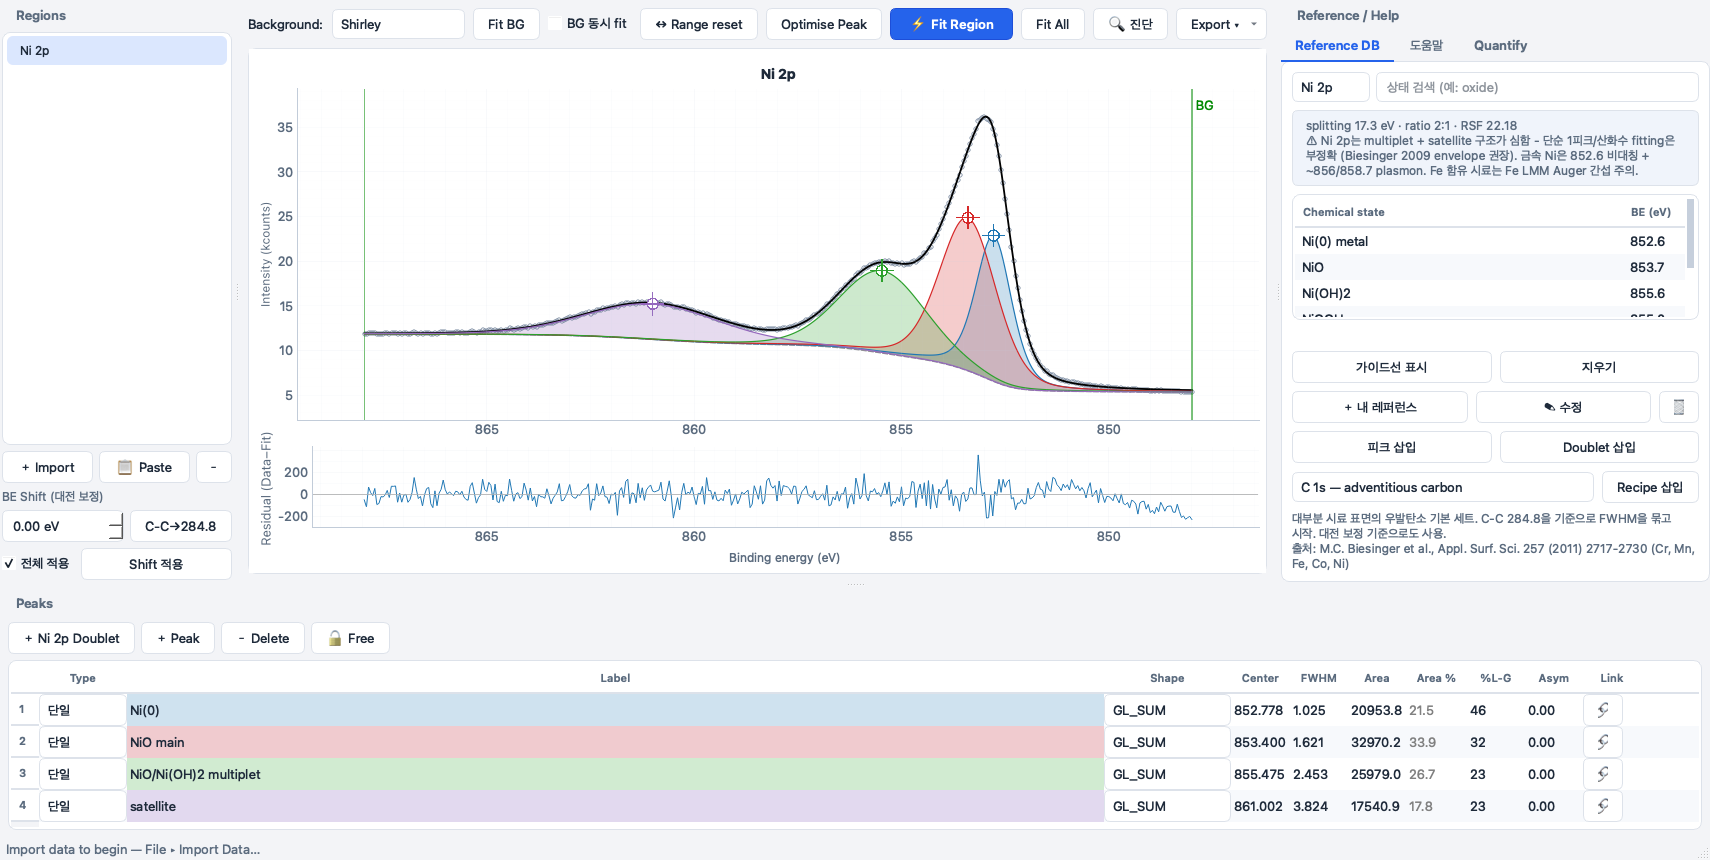
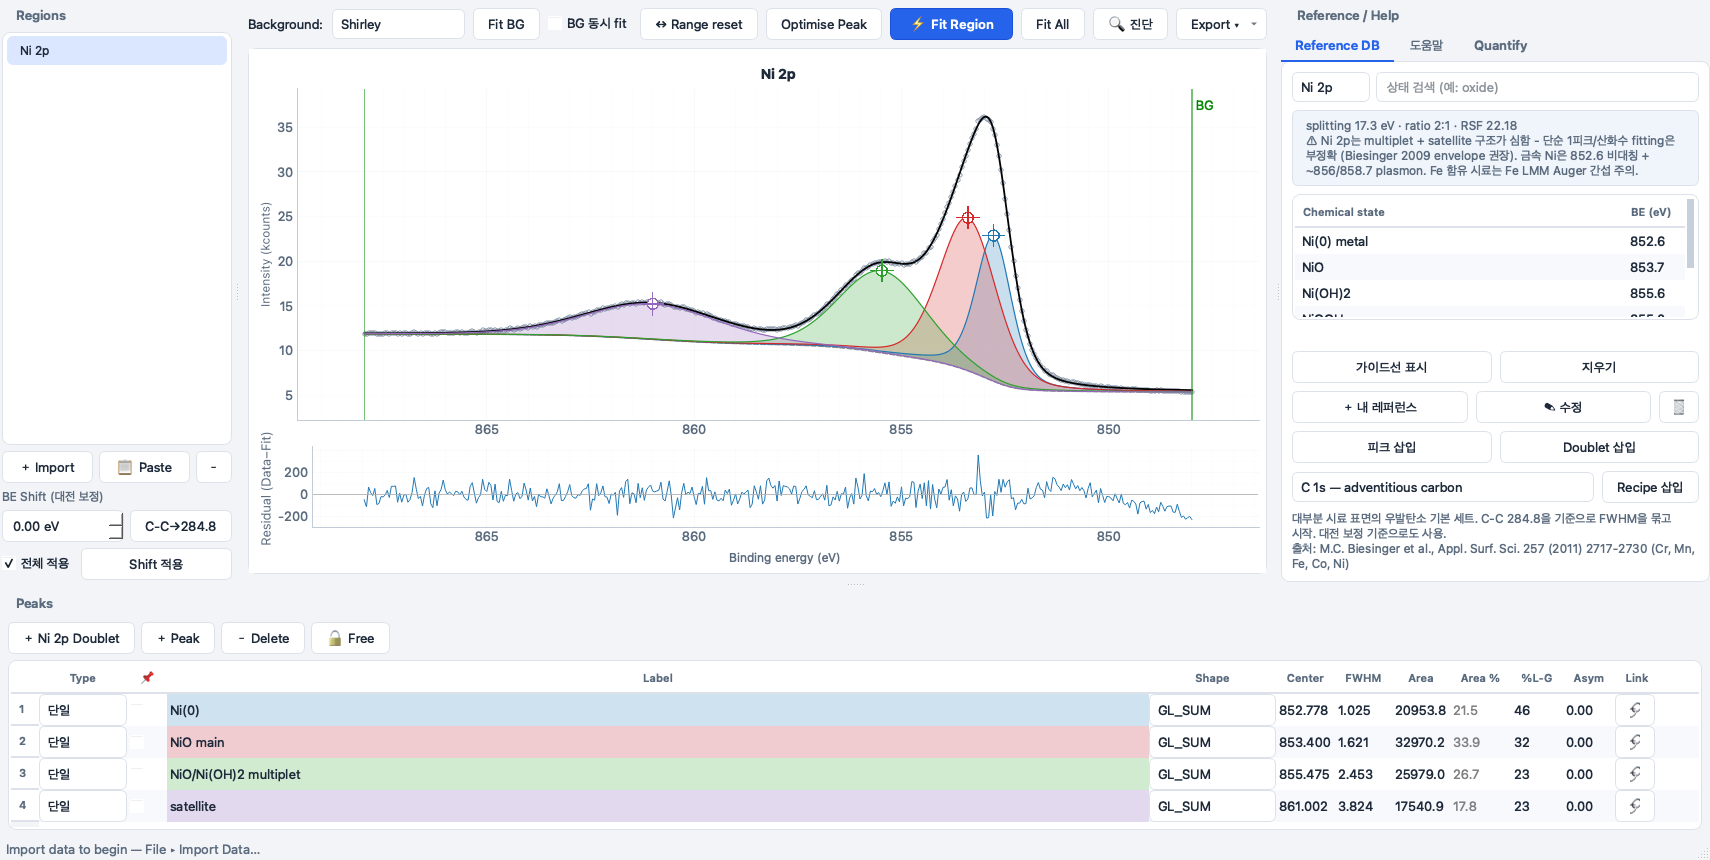
Add peak pinning (freeze-one-optimize-rest) and position-only lock

Changed region(s): [[0.6199, 0.786, 0.9608, 0.9674], [0.062, 0.786, 0.186, 0.9674], [0.3719, 0.786, 0.4029, 0.8163]]

diff --git a/src/xpsfit/ui/peak_table.py b/src/xpsfit/ui/peak_table.py
@@ -138,8 +138,10 @@ class PeakTable(QWidget):
     modelChanged = Signal()  # any parameter/peak-list change
     peakSelected = Signal(int)
 
-    HEADERS = ["Type", "Label", "Shape", "Center", "FWHM", "Area", "Area %", "%L-G", "Asym", "Link", ""]
+    HEADERS = ["Type", "📌", "Label", "Shape", "Center", "FWHM", "Area", "Area %", "%L-G", "Asym", "Link", ""]
     KIND_LABEL = {"single": "단일", "doublet_main": "Doublet", "satellite": "Satellite"}
+    COL_TYPE, COL_PIN, COL_LABEL, COL_SHAPE, COL_CENTER, COL_FWHM, COL_AREA = 0, 1, 2, 3, 4, 5, 6
+    COL_FRAC, COL_MIX, COL_ASYM, COL_LINK = 7, 8, 9, 10
 
     def __init__(self, parent=None):
         super().__init__(parent)
@@ -149,8 +151,13 @@ class PeakTable(QWidget):
         self.table = QTableWidget(0, len(self.HEADERS))
         self.table.setHorizontalHeaderLabels(self.HEADERS)
         self.table.horizontalHeader().setSectionResizeMode(QHeaderView.ResizeMode.ResizeToContents)
-        self.table.horizontalHeader().setSectionResizeMode(1, QHeaderView.ResizeMode.Stretch)
-        self.table.horizontalHeader().setMinimumSectionSize(58)
+        self.table.horizontalHeader().setSectionResizeMode(self.COL_LABEL, QHeaderView.ResizeMode.Stretch)
+        self.table.horizontalHeader().setMinimumSectionSize(40)
+        self.table.horizontalHeaderItem(self.COL_PIN).setToolTip(
+            "📌 고정: 체크하면 이 피크의 모든 파라미터가 fitting에서 제외됩니다\n"
+            "(한 피크를 잡아두고 나머지만 최적화). 위치만 고정하려면 행을 우클릭하세요.")
+        self.table.setContextMenuPolicy(Qt.ContextMenuPolicy.CustomContextMenu)
+        self.table.customContextMenuRequested.connect(self._context_menu)
         self.table.verticalHeader().setVisible(True)
         self.table.verticalHeader().setDefaultSectionSize(32)
         self.table.setAlternatingRowColors(True)
@@ -237,32 +244,38 @@ class PeakTable(QWidget):
             fractions = fitting.area_fractions(region)
             for i, p in enumerate(region.peaks):
                 self._make_type_combo(i, p)
-                self._set_item(i, 1, p.label, editable=True)
+                self._make_pin_item(i, p)
+                self._set_item(i, self.COL_LABEL, p.label, editable=True)
                 # match the component color used in the plot
                 tint = QColor(COMPONENT_COLORS[i % len(COMPONENT_COLORS)])
                 tint.setAlpha(55)
-                self.table.item(i, 1).setBackground(tint)
+                self.table.item(i, self.COL_LABEL).setBackground(tint)
                 shape_combo = QComboBox()
                 shape_combo.addItems(PEAK_SHAPES)
                 shape_combo.setCurrentText(p.shape)
                 shape_combo.currentTextChanged.connect(
                     lambda s, row=i: self._shape_changed(row, s))
-                self.table.setCellWidget(i, 2, shape_combo)
-                for col, (pname, _) in zip((3, 4, 5), PARAM_COLS[:3]):
+                self.table.setCellWidget(i, self.COL_SHAPE, shape_combo)
+                for col, (pname, _) in zip((self.COL_CENTER, self.COL_FWHM, self.COL_AREA),
+                                           PARAM_COLS[:3]):
                     spec = getattr(p, pname)
-                    self._set_item(i, col, f"{spec.value:.3f}" if pname != "area" else f"{spec.value:.1f}",
+                    prefix = "🔒 " if (col == self.COL_CENTER and not spec.vary
+                                       and spec.expr is None and not p.pinned) else ""
+                    self._set_item(i, col,
+                                   prefix + (f"{spec.value:.3f}" if pname != "area" else f"{spec.value:.1f}"),
                                    editable=spec.expr is None,
                                    tooltip=self._spec_tooltip(spec))
-                self._set_item(i, 6, f"{fractions[i]:.1f}" if i < len(fractions) else "-", editable=False)
-                self._set_item(i, 7, f"{p.mix.value:.0f}", editable=p.mix.expr is None,
+                self._set_item(i, self.COL_FRAC,
+                               f"{fractions[i]:.1f}" if i < len(fractions) else "-", editable=False)
+                self._set_item(i, self.COL_MIX, f"{p.mix.value:.0f}", editable=p.mix.expr is None,
                                tooltip="0 = Gaussian, 100 = Lorentzian")
-                self._set_item(i, 8, f"{p.asym.value:.2f}", editable=p.asym.expr is None,
+                self._set_item(i, self.COL_ASYM, f"{p.asym.value:.2f}", editable=p.asym.expr is None,
                                tooltip="GL_TAIL: 지수꼬리 길이(eV) / DONIACH: α")
                 btn = QPushButton("🔗" if self._has_constraint(p) else "…")
                 btn.setToolTip("값 고정 / 범위 / 다른 피크와의 관계식 설정")
                 btn.setFixedWidth(40)
                 btn.clicked.connect(lambda _=False, row=i: self._open_constraints(row))
-                self.table.setCellWidget(i, 9, btn)
+                self.table.setCellWidget(i, self.COL_LINK, btn)
         finally:
             self._updating = False
 
@@ -282,6 +295,54 @@ class PeakTable(QWidget):
                              "· 단일 — 구속 없는 일반 피크")
             combo.currentTextChanged.connect(lambda t, r=row: self._type_changed(r, t))
         self.table.setCellWidget(row, 0, combo)
+
+    def _make_pin_item(self, row: int, p: Peak) -> None:
+        item = QTableWidgetItem("")
+        if p.kind == "doublet_partner":
+            item.setFlags(Qt.ItemFlag.ItemIsSelectable | Qt.ItemFlag.ItemIsEnabled)
+            item.setText("·")
+            item.setToolTip("doublet 짝은 주피크를 따라갑니다 — 주피크를 📌 하세요")
+        else:
+            item.setFlags(Qt.ItemFlag.ItemIsSelectable | Qt.ItemFlag.ItemIsEnabled
+                          | Qt.ItemFlag.ItemIsUserCheckable)
+            item.setCheckState(Qt.CheckState.Checked if p.pinned else Qt.CheckState.Unchecked)
+            item.setToolTip("체크 = 이 피크 전체 고정 (나머지만 최적화)\n위치만 고정: 행 우클릭")
+        self.table.setItem(row, self.COL_PIN, item)
+
+    def _context_menu(self, pos) -> None:
+        from PySide6.QtWidgets import QMenu
+        row = self.table.rowAt(pos.y())
+        if self.region is None or row < 0 or row >= len(self.region.peaks):
+            return
+        p = self.region.peaks[row]
+        name = p.label or f"Peak {row + 1}"
+        menu = QMenu(self)
+        if p.kind != "doublet_partner":
+            act_pin = menu.addAction(("📌 전체 고정 해제" if p.pinned else "📌 전체 고정") + f" — {name}")
+            pos_fixed = (not p.center.vary) and p.center.expr is None
+            act_pos = menu.addAction("🔒 위치 고정 해제" if pos_fixed else
+                                     "🔒 위치만 고정 (면적·폭은 최적화)")
+        else:
+            act_pin = act_pos = None
+        act_free = menu.addAction("🔓 모든 구속 해제 (Free)")
+        chosen = menu.exec(self.table.viewport().mapToGlobal(pos))
+        if chosen is None:
+            return
+        if chosen is act_pin:
+            p.pinned = not p.pinned
+            self._status(f"📌 {name}: {'고정됨' if p.pinned else '고정 해제'}")
+        elif chosen is act_pos:
+            if p.center.expr is not None:
+                self._status(f"{name}: 위치가 관계식으로 묶여 있습니다 — 🔗에서 관계식을 지우세요")
+                return
+            p.center.vary = not p.center.vary
+            self._status(f"🔒 {name}: 위치 {p.center.value:.2f} eV "
+                         f"{'고정 해제' if p.center.vary else '고정 — 면적·FWHM은 계속 최적화됩니다'}")
+        elif chosen is act_free:
+            self.table.setCurrentCell(row, self.COL_LABEL)
+            self._free_peak()
+            return
+        self.modelChanged.emit()
 
     def _partner_row(self, row: int) -> int | None:
         pat = f"p{row}_center"
@@ -439,19 +500,27 @@ class PeakTable(QWidget):
         item = self.table.item(row, col)
         if item is None:
             return
-        text = item.text().strip()
+        if col == self.COL_PIN:
+            pinned = item.checkState() == Qt.CheckState.Checked
+            if pinned != p.pinned:
+                p.pinned = pinned
+                name = p.label or f"Peak {row + 1}"
+                self._status(f"📌 {name}: {'고정됨 — fitting에서 제외됩니다' if pinned else '고정 해제'}")
+                self.modelChanged.emit()
+            return
+        text = item.text().replace("🔒", "").strip()
         try:
-            if col == 1:
+            if col == self.COL_LABEL:
                 p.label = text
-            elif col == 3:
+            elif col == self.COL_CENTER:
                 p.center.value = float(text)
-            elif col == 4:
+            elif col == self.COL_FWHM:
                 p.fwhm.value = float(text)
-            elif col == 5:
+            elif col == self.COL_AREA:
                 p.area.value = float(text)
-            elif col == 7:
+            elif col == self.COL_MIX:
                 p.mix.value = min(100.0, max(0.0, float(text)))
-            elif col == 8:
+            elif col == self.COL_ASYM:
                 p.asym.value = float(text)
             else:
                 return
@@ -539,6 +608,7 @@ class PeakTable(QWidget):
         p.area.min, p.area.max = 0.0, math.inf
         p.mix.min, p.mix.max = 0.0, 100.0
         p.kind = "single"
+        p.pinned = False
         self._fix_orphan_kinds()
         self.modelChanged.emit()
         parts = []

diff --git a/tests/test_gui_smoke.py b/tests/test_gui_smoke.py
@@ -230,7 +230,7 @@ def test_feedback_round_features(qapp):
 
     # table row color matches plot component color (Label column, after Type)
     from xpsfit.ui.plot_widget import COMPONENT_COLORS
-    item = w.peak_table.table.item(0, 1)
+    item = w.peak_table.table.item(0, 2)
     assert item.background().color().name() == COMPONENT_COLORS[0]
 
     # free button drops constraints and reports what it released
@@ -377,3 +377,55 @@ def test_type_column_conversions(qapp):
     from xpsfit.core.spectrum import Region as R2
     r2 = R2.from_dict(d)
     assert r2.peaks[1].kind == "satellite"
+
+
+def test_peak_pinning(qapp):
+    """📌 freeze-one-optimize-rest, position-only lock, all-pinned guard."""
+    from PySide6.QtCore import Qt
+    from xpsfit.core import fitting
+    from xpsfit.core.spectrum import Peak
+    from xpsfit.ui.main_window import MainWindow
+
+    w = MainWindow()
+    region = make_s2p_region()
+    region.peaks = [Peak.create(center=161.5, area=4000.0, fwhm=1.2, label="A"),
+                    Peak.create(center=168.5, area=1500.0, fwhm=1.2, label="B")]
+    w.session.regions.append(region)
+    w._refresh_region_list()
+
+    # pin A through the checkbox column
+    item = w.peak_table.table.item(0, w.peak_table.COL_PIN)
+    item.setCheckState(Qt.CheckState.Checked)
+    assert region.peaks[0].pinned is True
+
+    before = (region.peaks[0].center.value, region.peaks[0].area.value,
+              region.peaks[0].fwhm.value)
+    fitting.fit_region(region)
+    after = (region.peaks[0].center.value, region.peaks[0].area.value,
+             region.peaks[0].fwhm.value)
+    assert before == after  # pinned peak untouched
+    assert region.peaks[1].center.value != pytest.approx(168.5, abs=1e-6)  # B moved
+
+    # pinned peak ignores drags
+    w._peak_dragged(0, 160.0, 9999.0)
+    assert region.peaks[0].center.value == before[0]
+
+    # position-only lock: center frozen, area still optimizes
+    region.peaks[0].pinned = False
+    region.peaks[0].center.vary = False
+    region.peaks[0].center.value = 161.5
+    region.peaks[0].area.value = 1000.0
+    fitting.fit_region(region)
+    assert region.peaks[0].center.value == 161.5
+    assert region.peaks[0].area.value != 1000.0
+
+    # everything frozen -> guarded message, no crash
+    region.peaks[0].pinned = True
+    region.peaks[1].pinned = True
+    res = fitting.fit_region(region)
+    assert "고정" in res.message
+
+    # session round-trip keeps the pin
+    from xpsfit.core.spectrum import Region as R2
+    r2 = R2.from_dict(region.to_dict())
+    assert r2.peaks[0].pinned is True

diff --git a/src/xpsfit/core/fitting.py b/src/xpsfit/core/fitting.py
@@ -32,6 +32,8 @@ def build_parameters(peaks: list[Peak], only_peak: int | None = None) -> Paramet
             vary = spec.vary and spec.expr is None
             if only_peak is not None and i != only_peak:
                 vary = False
+            if peak.pinned:  # 📌 frozen peak: nothing about it moves
+                vary = False
             params.add(
                 param_name(i, pname),
                 value=spec.value,
@@ -125,6 +127,10 @@ def fit_region(
 
     params = build_parameters(region.peaks, only_peak=only_peak)
     _clamp_centers_to_window(params, region.peaks, float(xw[0]), float(xw[-1]))
+    if not any(p.vary for p in params.values()):
+        res = eval_model(region)
+        res.message = "최적화할 자유 파라미터가 없습니다 (전부 고정/📌) — 핀을 풀고 fitting하세요"
+        return res
 
     def residual(p: Parameters) -> np.ndarray:
         model = np.sum(eval_peaks(p, region.peaks, xw), axis=0)

diff --git a/src/xpsfit/core/spectrum.py b/src/xpsfit/core/spectrum.py
@@ -69,6 +69,8 @@ class Peak:
     shape: str = "GL_SUM"
     # peak role: "single" | "doublet_main" | "doublet_partner" | "satellite"
     kind: str = "single"
+    # pinned: the whole peak is frozen during fits (others keep optimizing)
+    pinned: bool = False
     center: ParamSpec = field(default_factory=ParamSpec)
     area: ParamSpec = field(default_factory=ParamSpec)
     fwhm: ParamSpec = field(default_factory=ParamSpec)
@@ -110,12 +112,14 @@ class Peak:
         }
         if self.kind != "single":
             d["kind"] = self.kind
+        if self.pinned:
+            d["pinned"] = True
         return d
 
     @classmethod
     def from_dict(cls, d: dict) -> "Peak":
         p = cls(label=d.get("label", ""), shape=d.get("shape", "GL_SUM"),
-                kind=d.get("kind", "single"))
+                kind=d.get("kind", "single"), pinned=d.get("pinned", False))
         for n in cls.PARAM_NAMES:
             if n in d:
                 setattr(p, n, ParamSpec.from_dict(d[n]))

diff --git a/src/xpsfit/ui/main_window.py b/src/xpsfit/ui/main_window.py
@@ -439,7 +439,10 @@ class MainWindow(QMainWindow):
         if region is None or index >= len(region.peaks):
             return
         p = region.peaks[index]
-        if p.center.expr is None:
+        if p.pinned:
+            self.statusBar().showMessage("📌 고정된 피크입니다 — 테이블에서 핀을 해제하면 움직일 수 있어요", 4000)
+            return
+        if p.center.expr is None and p.center.vary:
             i1, i2 = region.crop_indices()
             lo = max(p.center.min, float(region.x[i1]))
             hi = min(p.center.max, float(region.x[i2]))